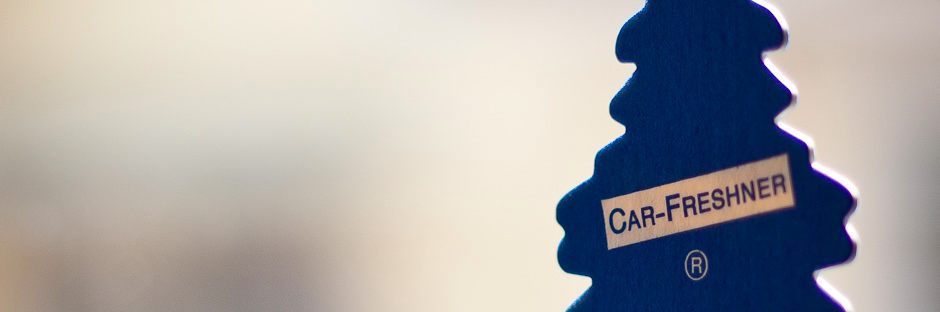
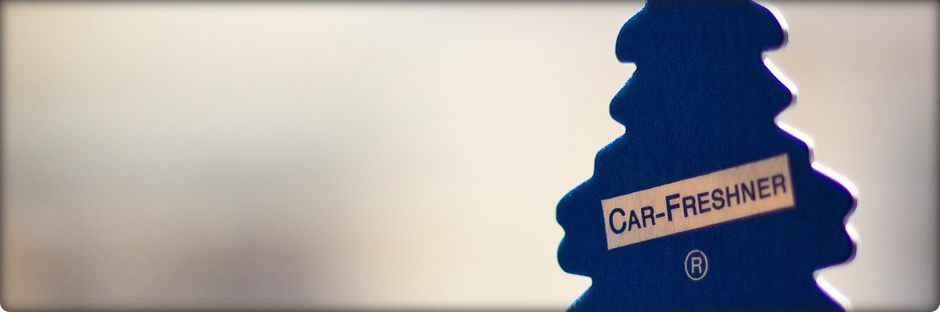
Replace css shadow with image.
Page paint time reduced from 9ms to 2ms

Changed region(s): [[0.0, 0.0, 0.7096, 1.0], [0.7713, 0.0, 1.0, 1.0]]

diff --git a/assets/css/main.css b/assets/css/main.css
@@ -5,8 +5,6 @@ body {
 
 .hero-unit {
   background-image: url(../img/photo_head.jpg);
-  box-shadow: inset 0 0 1em #222;
-  border-radius: 0 0 10px 10px;
 }
 
 .hero-unit h1,
